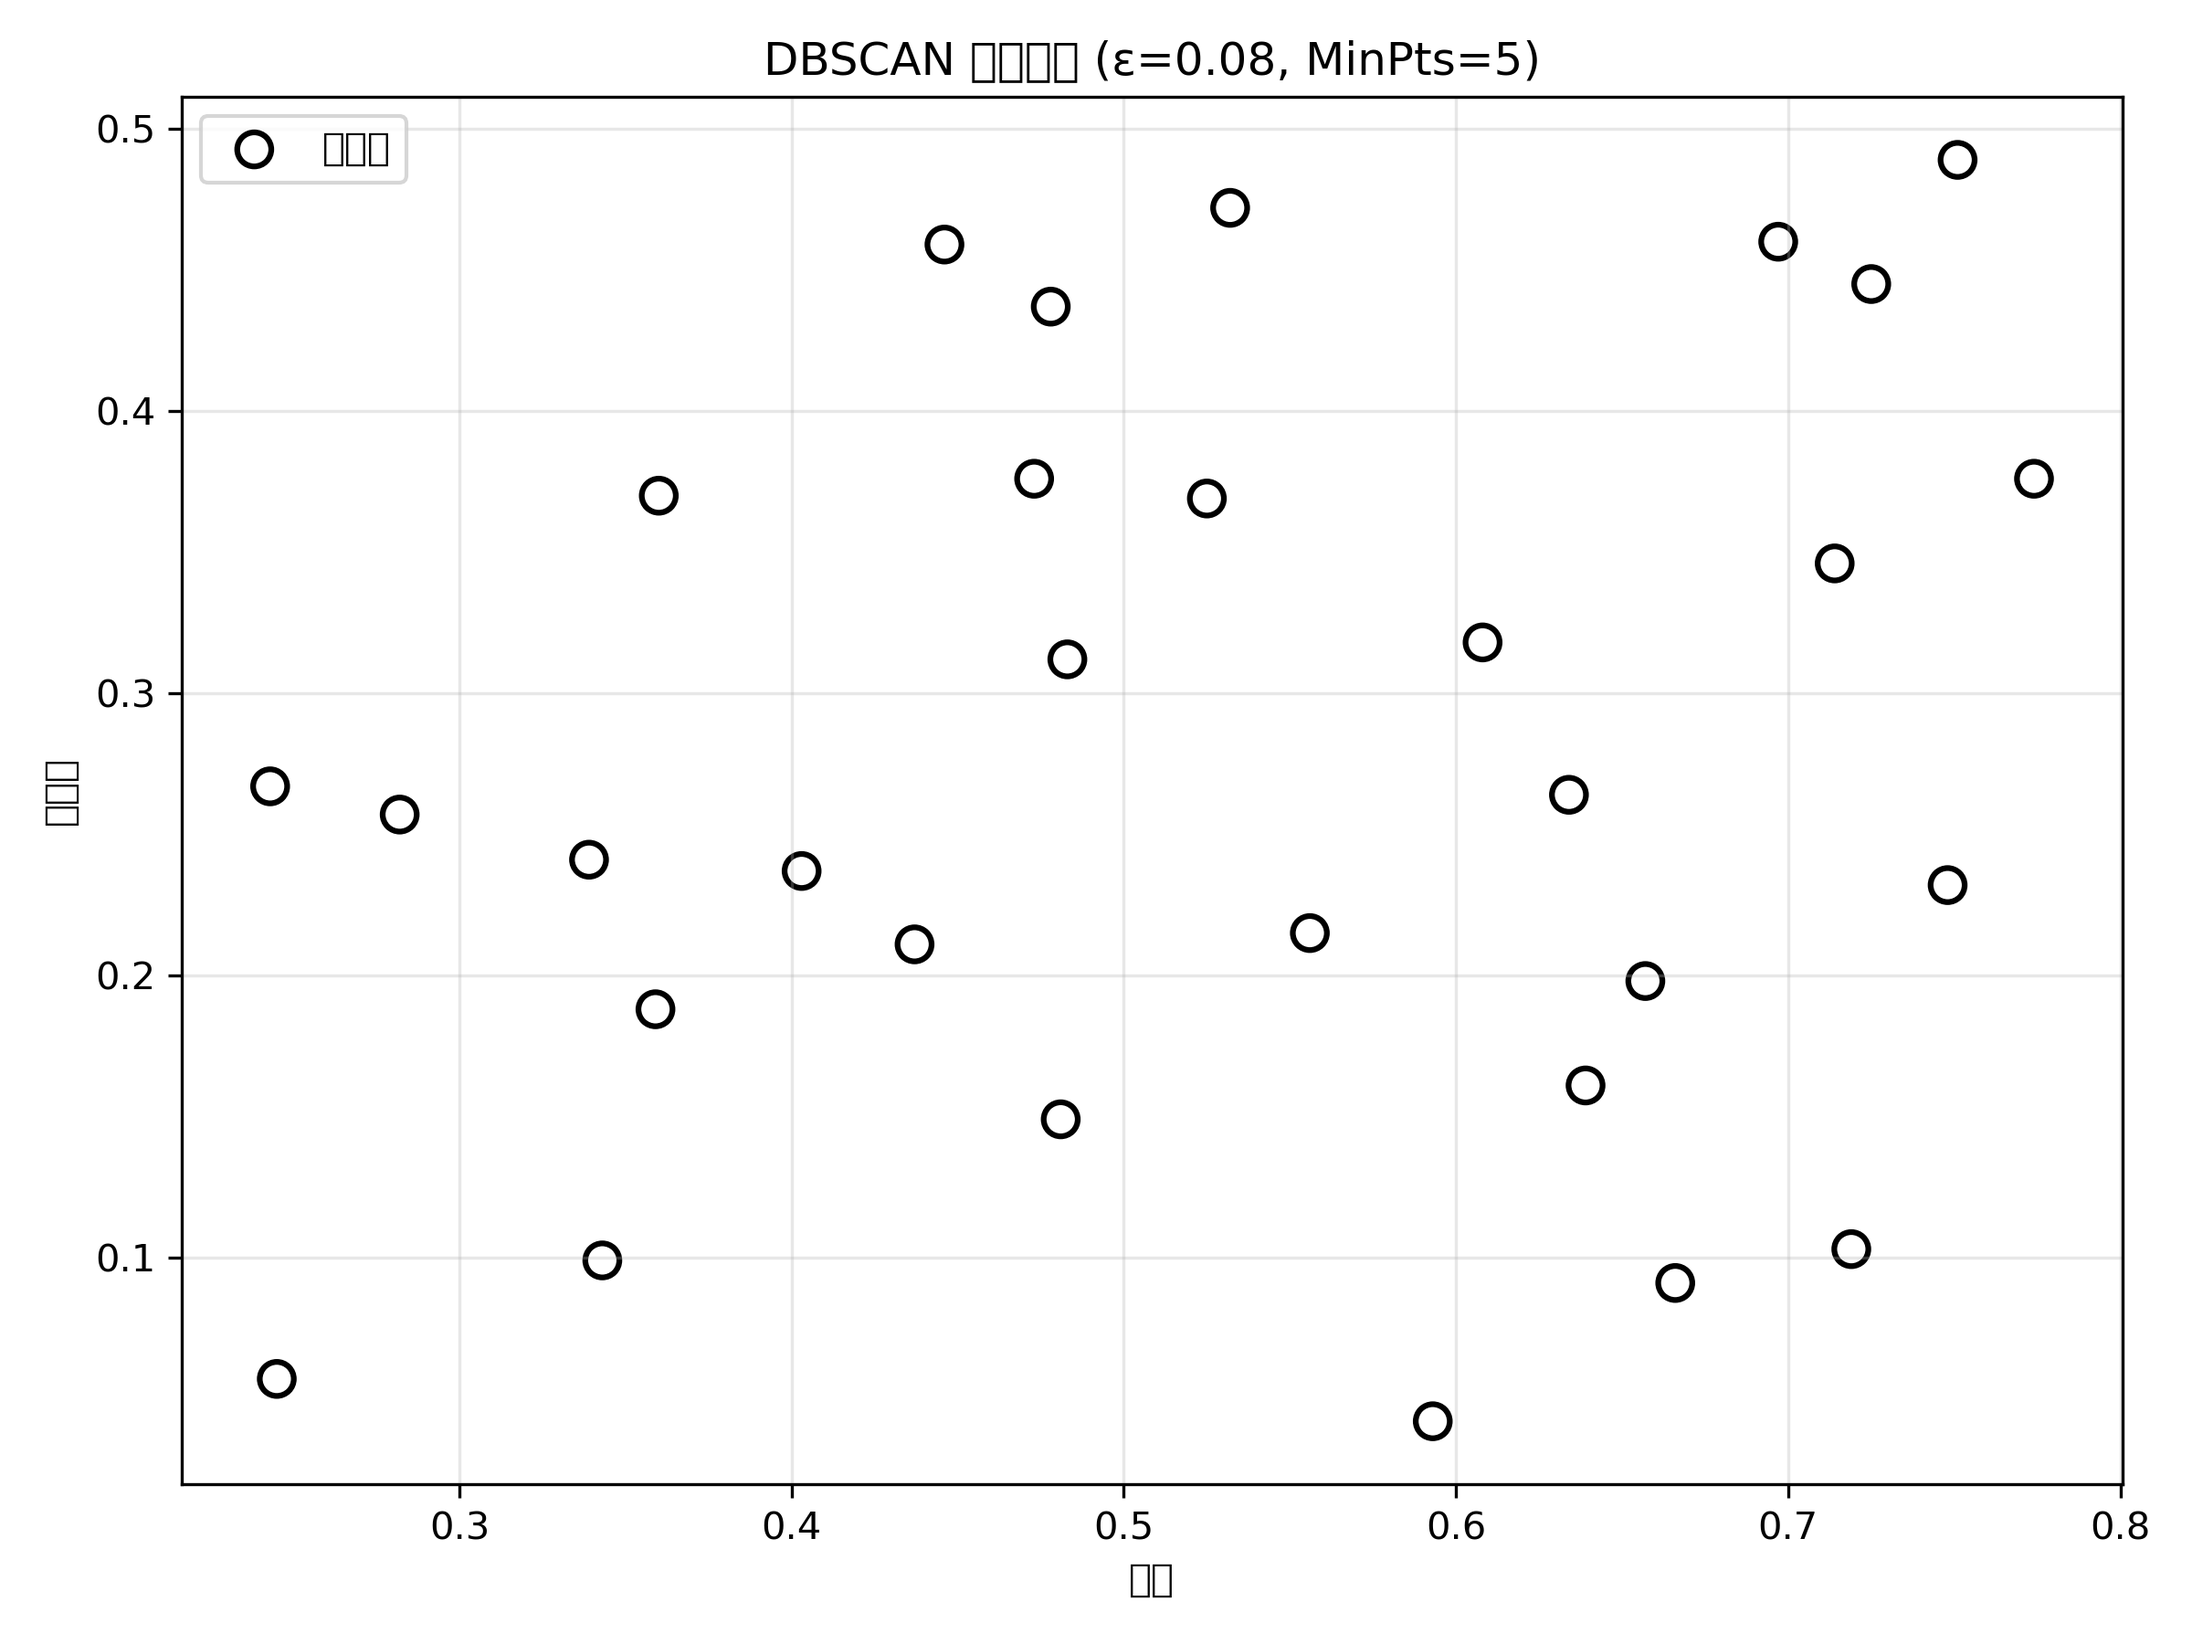
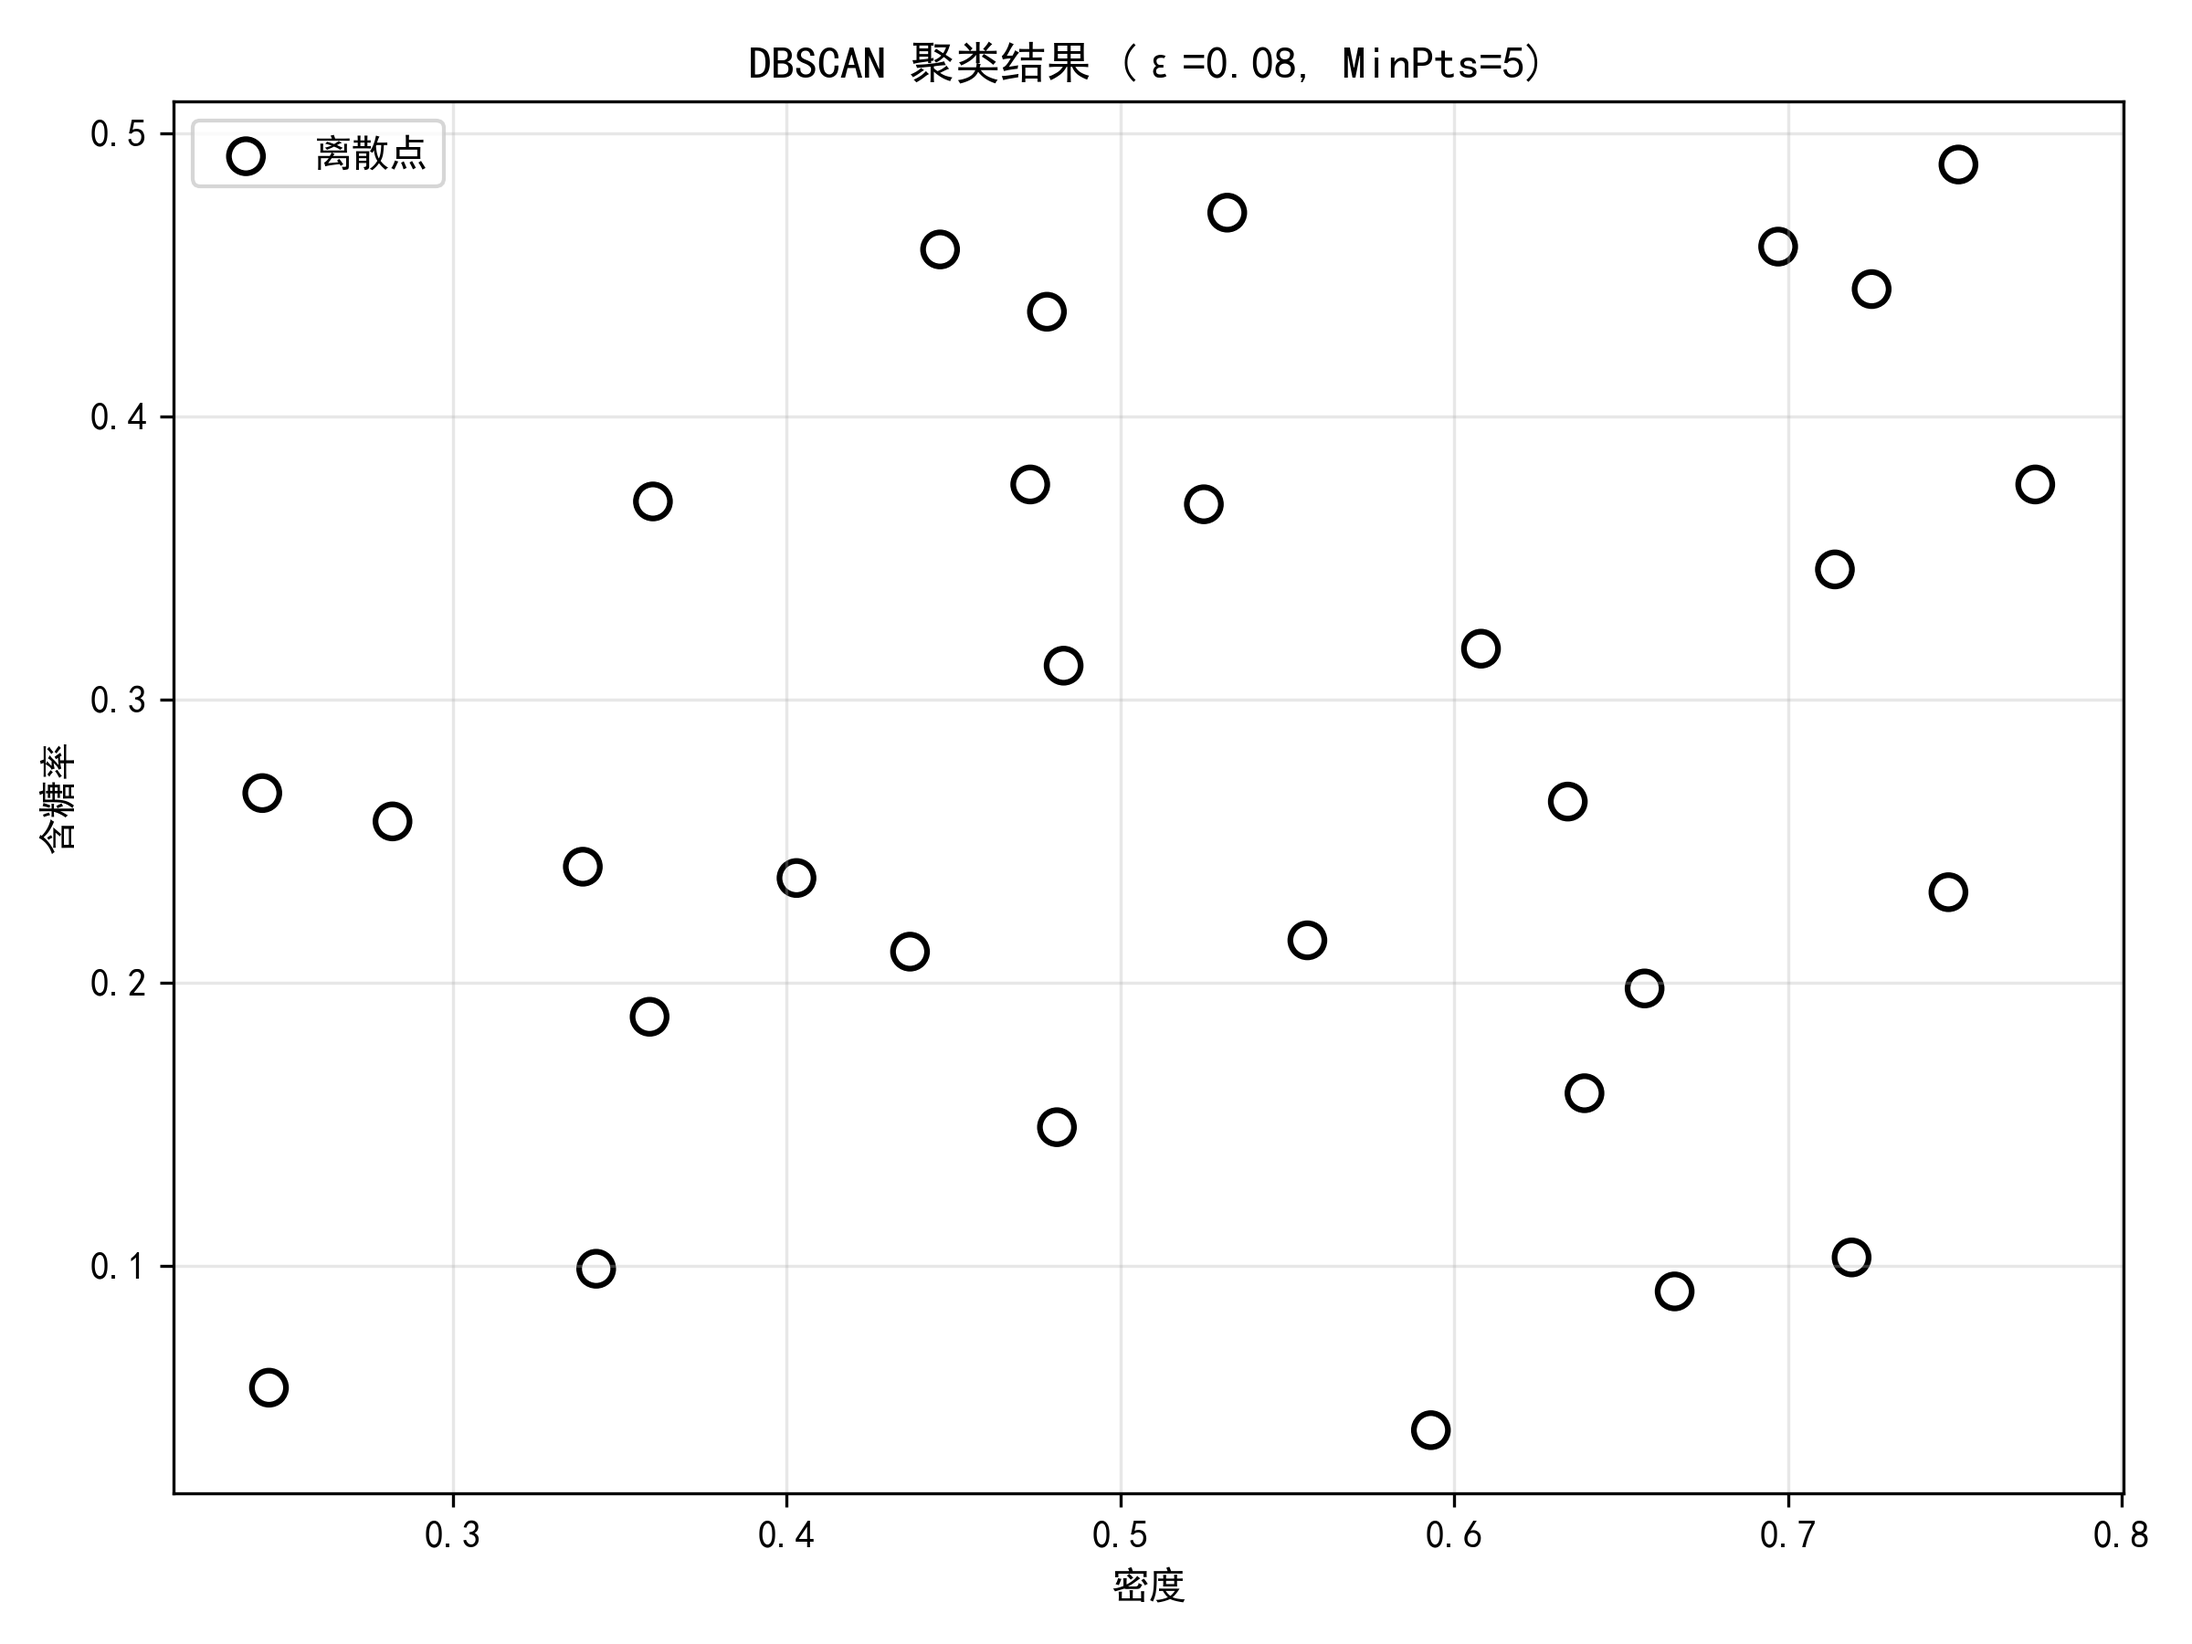
fix work_5

diff --git a/work/work_5/work_05.py b/work/work_5/work_05.py
@@ -47,7 +47,7 @@ def dbscan(X, eps, min_pts):
 
 # 绘制聚类结果
 def plot_clusters(X, labels, title, save_path):
-    plt.rcParams['font.sans-serif'] = ['Noto Sans CJK SC', 'DejaVu Sans', 'SimHei', 'Arial Unicode MS', 'sans-serif']
+    plt.rcParams['font.sans-serif'] = [ 'SimHei']
     plt.rcParams['axes.unicode_minus'] = False
     plt.figure(figsize=(8,6))
     unique_labels = set(labels)
@@ -70,7 +70,8 @@ def plot_clusters(X, labels, title, save_path):
 # 主程序
 if __name__ == "__main__":
     import os
-    fig_dir = "/home/kai/桌面/Pattern-Recognition-and-Machine-Learning-Assignment-Record/work/work_5/cluster_figures"
+    base_dir = os.path.dirname(os.path.abspath(__file__))
+    fig_dir = os.path.join(base_dir, "cluster_figures")
     if not os.path.exists(fig_dir):
         os.makedirs(fig_dir)
     # 选择不同的邻域参数
